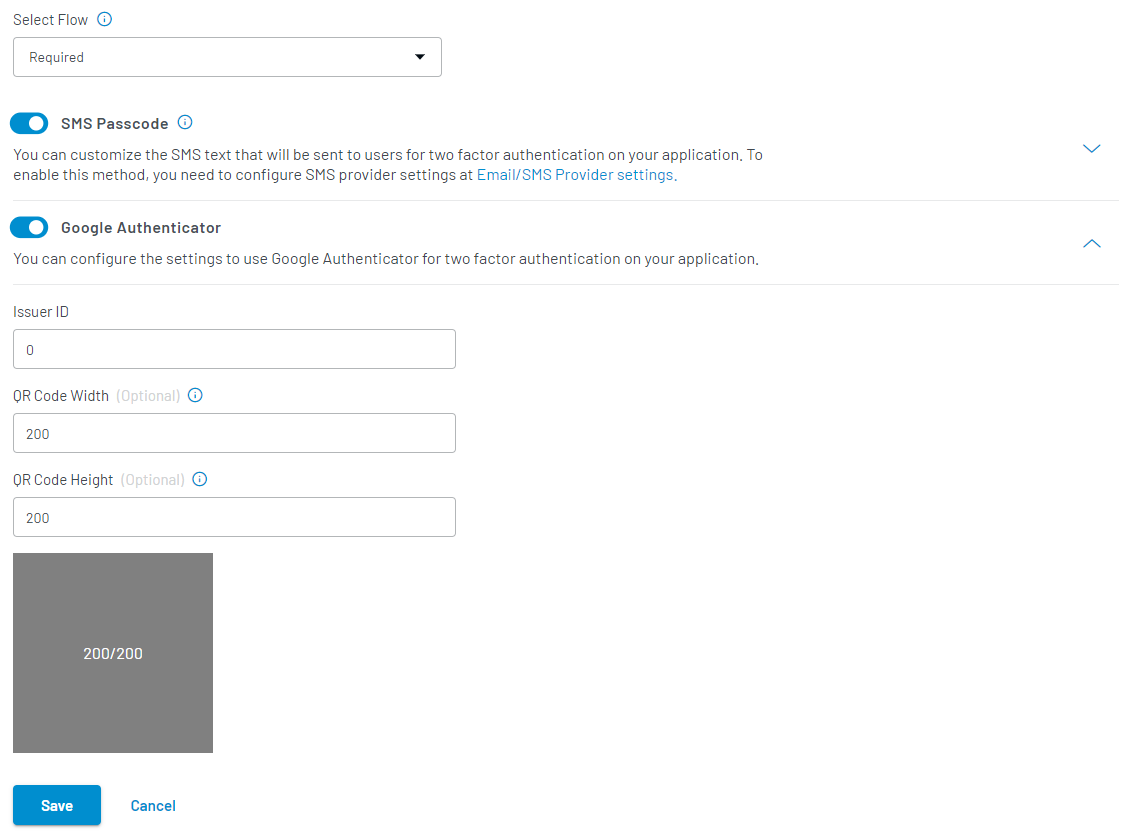
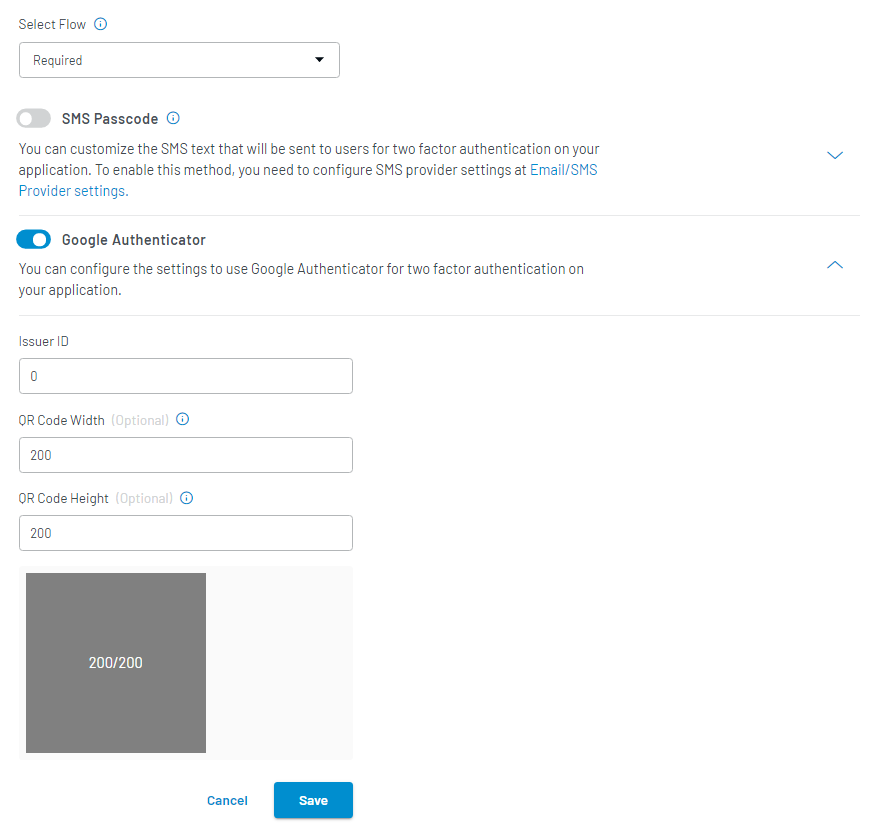
updated screenshot and addon flow for MFA

diff --git a/content/guide/mfa/index.md b/content/guide/mfa/index.md
@@ -19,13 +19,20 @@ You can implement the 2FA in two following ways:
 * **Google Authenticator**: Consumer needs to enter the verification code from Google Authenticator linked account. Upon verification, the consumer will be logged in. 
 
 
-## Step 1: Choose 2FA Method  
+## Step 1: Enable Two Factor Authentication  
 
-1. Login to your [LoginRadius Dashboard](https://dashboard.loginradius.com/dashboard) account, from the left navigation panel, click **Security** and then navigate to the **Two Factor Authentication** section. Click the down arrow, the **Two Factor Authentication** screen will appear:
+1. Login to your [LoginRadius Dashboard](https://dashboard.loginradius.com/dashboard) account, from the left navigation panel, click **Security** and then navigate to the **Two Factor Authentication** section. Click on the switch to enable the Two Factor Authentication Add-On.
 
-   ![alt_text](images/2fa.png "image_tooltip")
+   ![alt_text](images/addon-switch.png "image_tooltip")
 
-2. Choose the desired Two-Factor Authentication methods from **SMS Passcode** and **Google Authenticator**, and whether it is going to be optional or required for the consumers:
+2. When the Add-On dialog appears, click **Enable**
+
+   ![alt_text](images/addon-dialog.png "image_tooltip")
+
+
+## Step 2: Choose 2FA Method 
+
+1. Choose the desired Two-Factor Authentication methods from **SMS Passcode** and **Google Authenticator**, and whether it is going to be optional or required for the consumers:
 
    ![alt_text](images/main.png "image_tooltip")
 
@@ -34,7 +41,7 @@ You can implement the 2FA in two following ways:
     * **Required**: Consumers will be required to authenticate themself using the enabled 2FA option in addition to the initial authentication for login.
 
 
-## Step 2: Configure 2FA Templates
+## Step 3: Configure 2FA Templates
 
 ### SMS Passcode
 
@@ -66,7 +73,7 @@ To enable two-factor authentication with Google Authenticator, you need to confi
 
 The two-factor authentication is now configured.
 
-### Step 3: Check Auth Page (IDX)
+## Step 4: Check Auth Page (IDX)
 
 **SMS Passcode**
 
